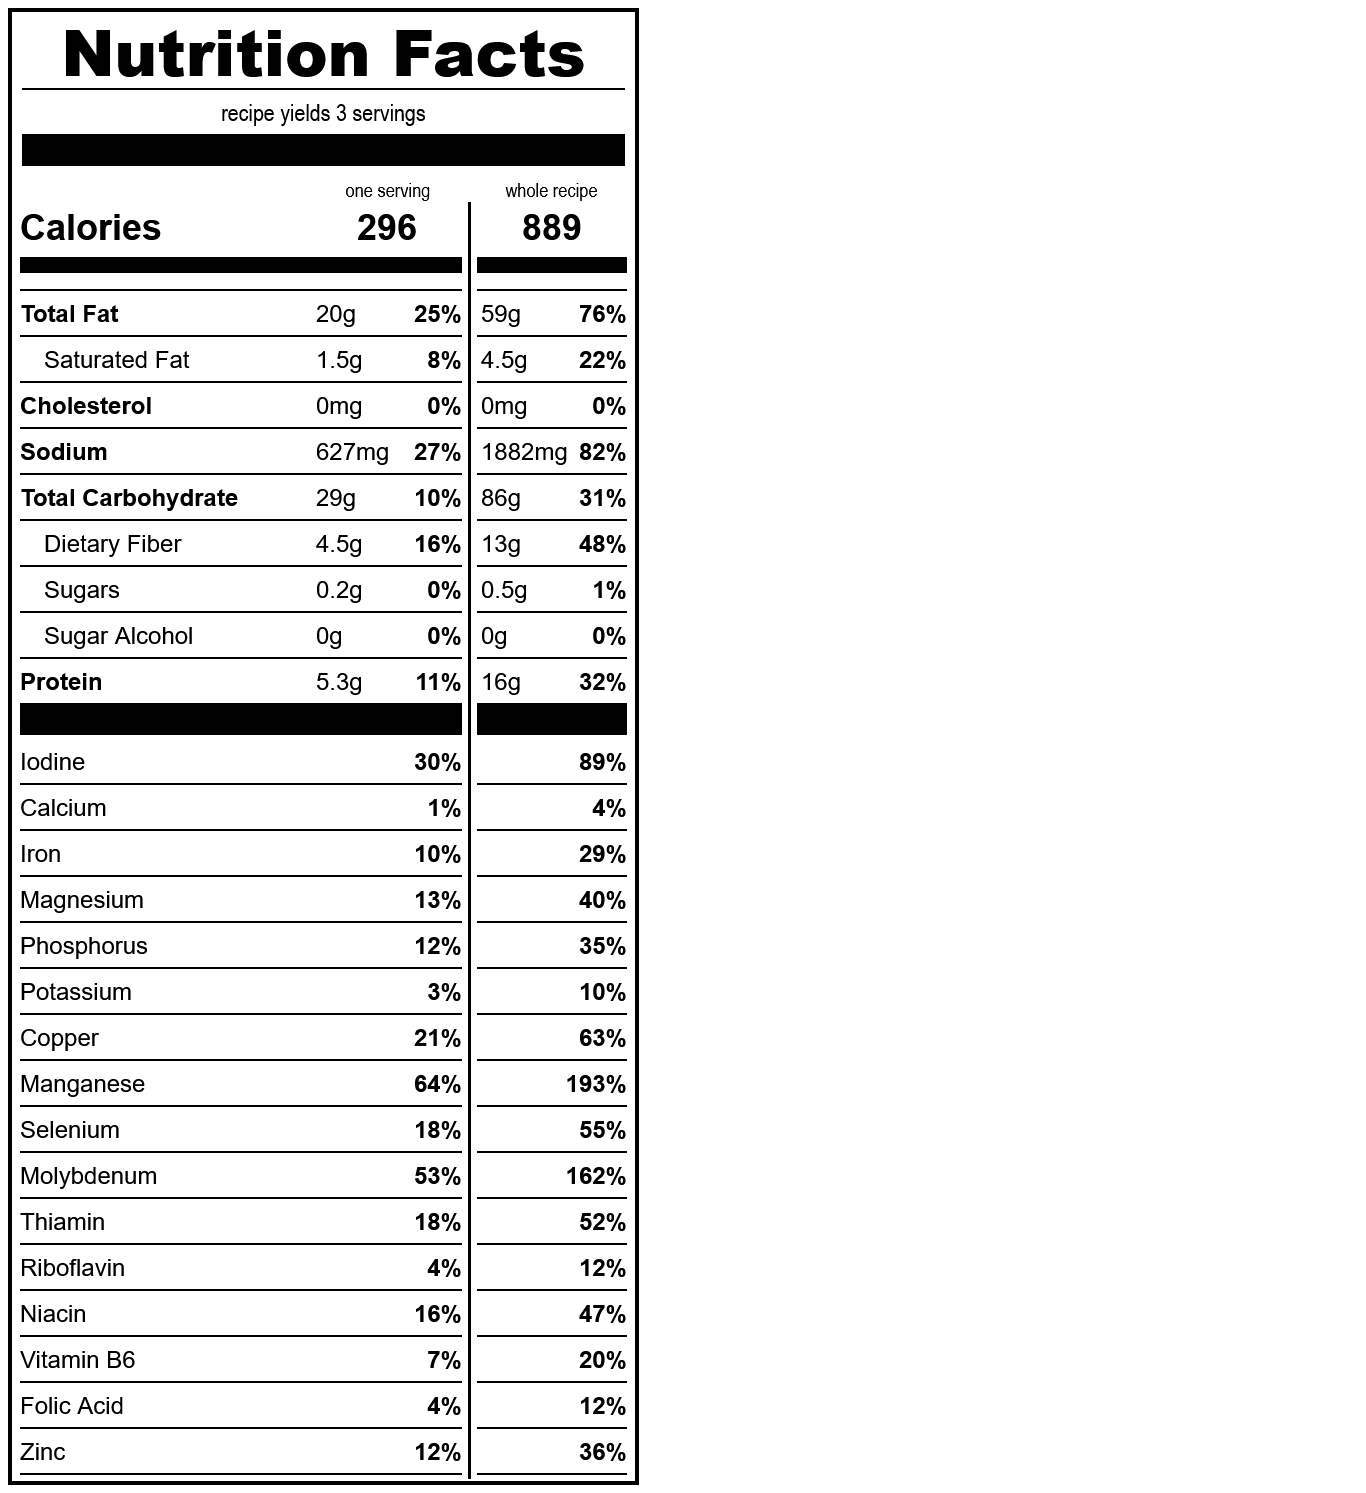
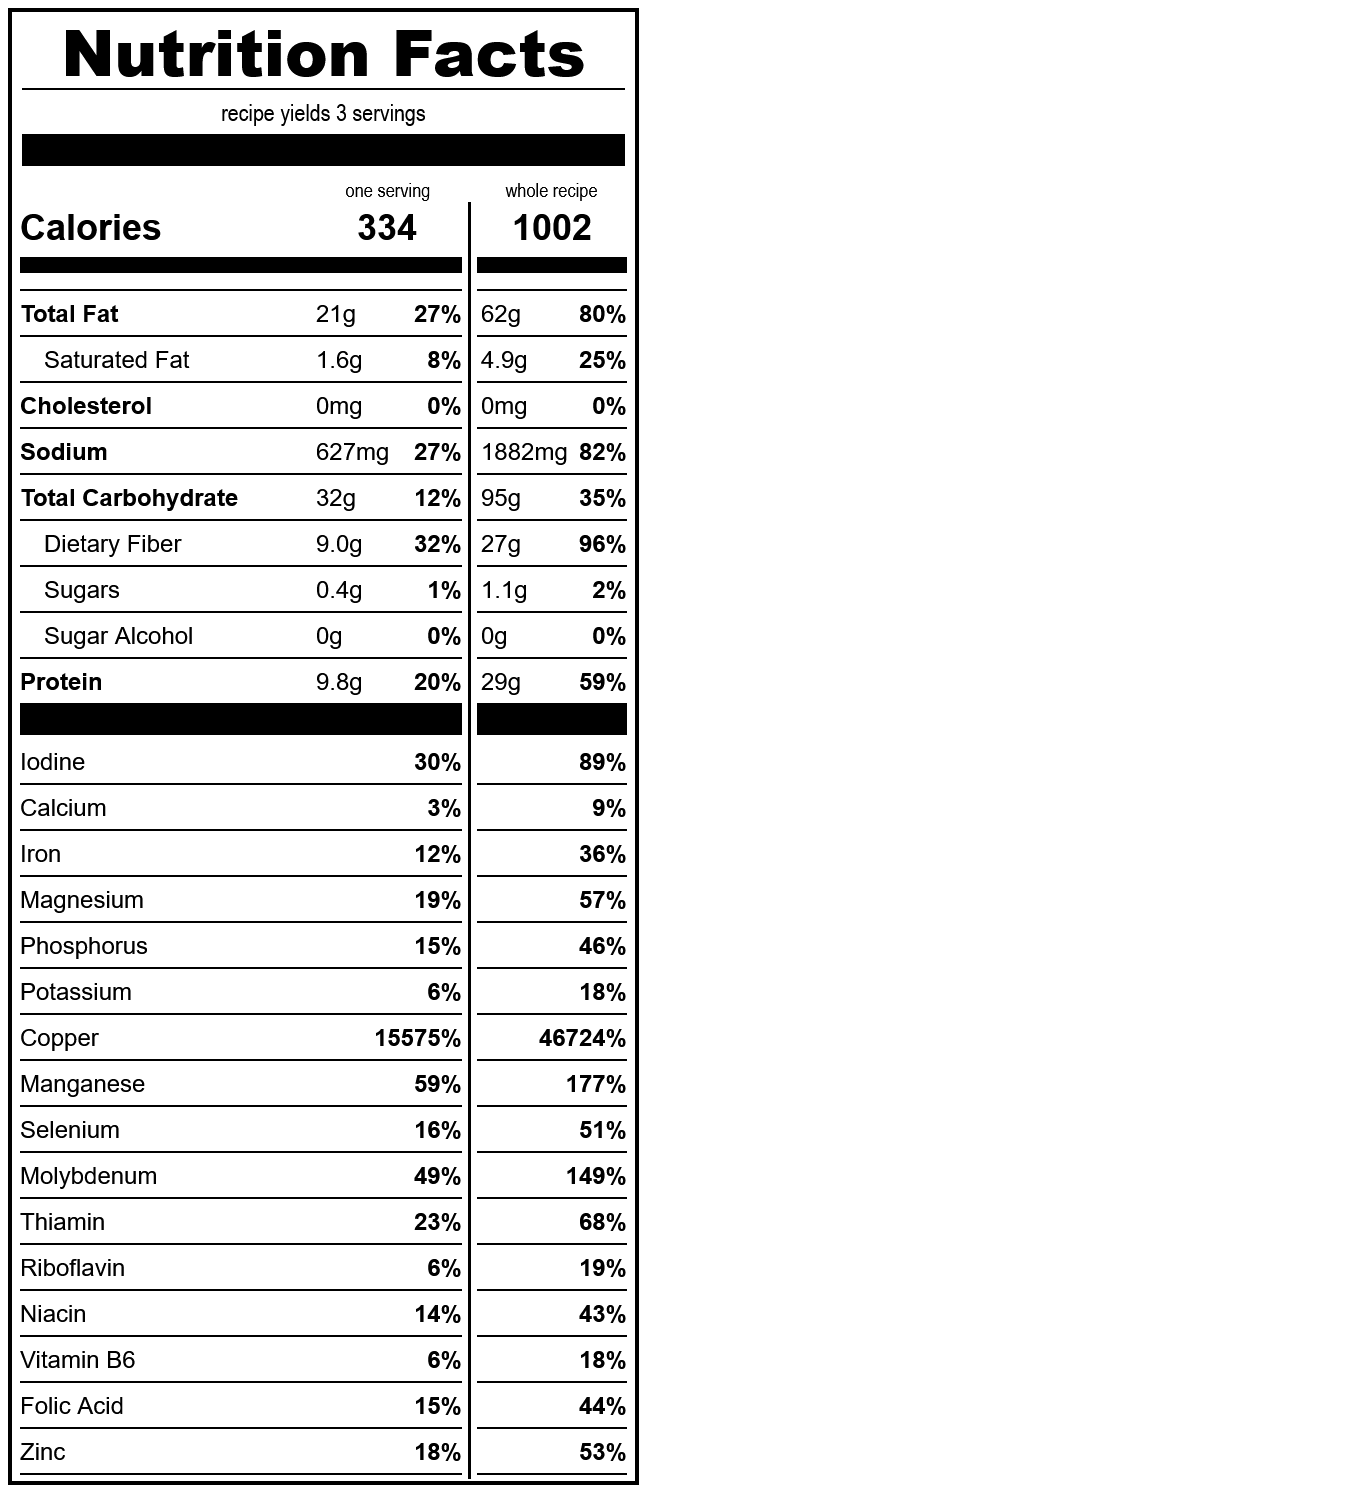
lupin waffles

diff --git a/source/nutrition/nutrition_labels/waffles/nutrition_facts.html b/source/nutrition/nutrition_labels/waffles/nutrition_facts.html
@@ -144,11 +144,11 @@
                     <hr class="thicc">
                     <hr>
                 </td>
-                <td>296
+                <td>334
                     <hr class="thicc">
                     <hr>
                 </td>
-                <td>889
+                <td>1002
                     <hr class="thicc">
                     <hr>
                 </td>
@@ -157,10 +157,10 @@
                 <td>Total Fat
                     <hr>
                 </td>
-                <td class="grams">20g<span class="dv">25%</span>
+                <td class="grams">21g<span class="dv">27%</span>
                     <hr>
                 </td>
-                <td class="grams">59g<span class="dv">76%</span>
+                <td class="grams">62g<span class="dv">80%</span>
                     <hr>
                 </td>
             </tr>
@@ -168,10 +168,10 @@
                 <td><span class="subset">Saturated Fat</span>
                     <hr>
                 </td>
-                <td class="grams">1.5g<span class="dv">8%</span>
+                <td class="grams">1.6g<span class="dv">8%</span>
                     <hr>
                 </td>
-                <td class="grams">4.5g<span class="dv">22%</span>
+                <td class="grams">4.9g<span class="dv">25%</span>
                     <hr>
                 </td>
             </tr>
@@ -201,10 +201,10 @@
                 <td>Total Carbohydrate
                     <hr>
                 </td>
-                <td class="grams">29g<span class="dv">10%</span>
+                <td class="grams">32g<span class="dv">12%</span>
                     <hr>
                 </td>
-                <td class="grams">86g<span class="dv">31%</span>
+                <td class="grams">95g<span class="dv">35%</span>
                     <hr>
                 </td>
             </tr>
@@ -212,10 +212,10 @@
                 <td><span class="subset">Dietary Fiber</span>
                     <hr>
                 </td>
-                <td class="grams">4.5g<span class="dv">16%</span>
+                <td class="grams">9.0g<span class="dv">32%</span>
                     <hr>
                 </td>
-                <td class="grams">13g<span class="dv">48%</span>
+                <td class="grams">27g<span class="dv">96%</span>
                     <hr>
                 </td>
             </tr>
@@ -223,10 +223,10 @@
                 <td><span class="subset">Sugars</span>
                     <hr>
                 </td>
-                <td class="grams">0.2g<span class="dv">0%</span>
+                <td class="grams">0.4g<span class="dv">1%</span>
                     <hr>
                 </td>
-                <td class="grams">0.5g<span class="dv">1%</span>
+                <td class="grams">1.1g<span class="dv">2%</span>
                     <hr>
                 </td>
             </tr>
@@ -245,30 +245,30 @@
                 <td>Protein
                     <hr class="thiccc">
                 </td>
-                <td class="grams">5.3g<span class="dv">11%</span>
+                <td class="grams">9.8g<span class="dv">20%</span>
                     <hr class="thiccc">
                 </td>
-                <td class="grams">16g<span class="dv">32%</span>
+                <td class="grams">29g<span class="dv">59%</span>
                     <hr class="thiccc">
                 </td>
             </tr>
         </table>
         <table id="vitamins"><tr><td>Iodine<hr></td><td>30%<hr></td><td>89%<hr></td></tr>
-<tr><td>Calcium<hr></td><td>1%<hr></td><td>4%<hr></td></tr>
-<tr><td>Iron<hr></td><td>10%<hr></td><td>29%<hr></td></tr>
-<tr><td>Magnesium<hr></td><td>13%<hr></td><td>40%<hr></td></tr>
-<tr><td>Phosphorus<hr></td><td>12%<hr></td><td>35%<hr></td></tr>
-<tr><td>Potassium<hr></td><td>3%<hr></td><td>10%<hr></td></tr>
-<tr><td>Copper<hr></td><td>21%<hr></td><td>63%<hr></td></tr>
-<tr><td>Manganese<hr></td><td>64%<hr></td><td>193%<hr></td></tr>
-<tr><td>Selenium<hr></td><td>18%<hr></td><td>55%<hr></td></tr>
-<tr><td>Molybdenum<hr></td><td>53%<hr></td><td>162%<hr></td></tr>
-<tr><td>Thiamin<hr></td><td>18%<hr></td><td>52%<hr></td></tr>
-<tr><td>Riboflavin<hr></td><td>4%<hr></td><td>12%<hr></td></tr>
-<tr><td>Niacin<hr></td><td>16%<hr></td><td>47%<hr></td></tr>
-<tr><td>Vitamin B6<hr></td><td>7%<hr></td><td>20%<hr></td></tr>
-<tr><td>Folic Acid<hr></td><td>4%<hr></td><td>12%<hr></td></tr>
-<tr><td>Zinc<hr></td><td>12%<hr></td><td>36%<hr></td></tr></table>
+<tr><td>Calcium<hr></td><td>3%<hr></td><td>9%<hr></td></tr>
+<tr><td>Iron<hr></td><td>12%<hr></td><td>36%<hr></td></tr>
+<tr><td>Magnesium<hr></td><td>19%<hr></td><td>57%<hr></td></tr>
+<tr><td>Phosphorus<hr></td><td>15%<hr></td><td>46%<hr></td></tr>
+<tr><td>Potassium<hr></td><td>6%<hr></td><td>18%<hr></td></tr>
+<tr><td>Copper<hr></td><td>15575%<hr></td><td>46724%<hr></td></tr>
+<tr><td>Manganese<hr></td><td>59%<hr></td><td>177%<hr></td></tr>
+<tr><td>Selenium<hr></td><td>16%<hr></td><td>51%<hr></td></tr>
+<tr><td>Molybdenum<hr></td><td>49%<hr></td><td>149%<hr></td></tr>
+<tr><td>Thiamin<hr></td><td>23%<hr></td><td>68%<hr></td></tr>
+<tr><td>Riboflavin<hr></td><td>6%<hr></td><td>19%<hr></td></tr>
+<tr><td>Niacin<hr></td><td>14%<hr></td><td>43%<hr></td></tr>
+<tr><td>Vitamin B6<hr></td><td>6%<hr></td><td>18%<hr></td></tr>
+<tr><td>Folic Acid<hr></td><td>15%<hr></td><td>44%<hr></td></tr>
+<tr><td>Zinc<hr></td><td>18%<hr></td><td>53%<hr></td></tr></table>
     </div>
 </body>
 

diff --git a/recipes/breakfast/waffles.md b/recipes/breakfast/waffles.md
@@ -6,7 +6,8 @@
 - 1/2 t salt
 - 1/4 c oil
 - 1/4 c sourdough starter
-- 3/4 c whole wheat flour
+- 2/3 c whole wheat flour
+- 1/3 c lupin flour
 - 1/2 T baking powder
 - 1/8 t guar gum
 
@@ -21,7 +22,7 @@ Mix everything in a bowl and cook as per your waffle maker's instructions.
 
 ### calculated ingredient cost:
 
-$0.48 for the whole recipe, $0.16 per serving
+$1.50 for the whole recipe, $0.50 per serving
 
 <br>
 
